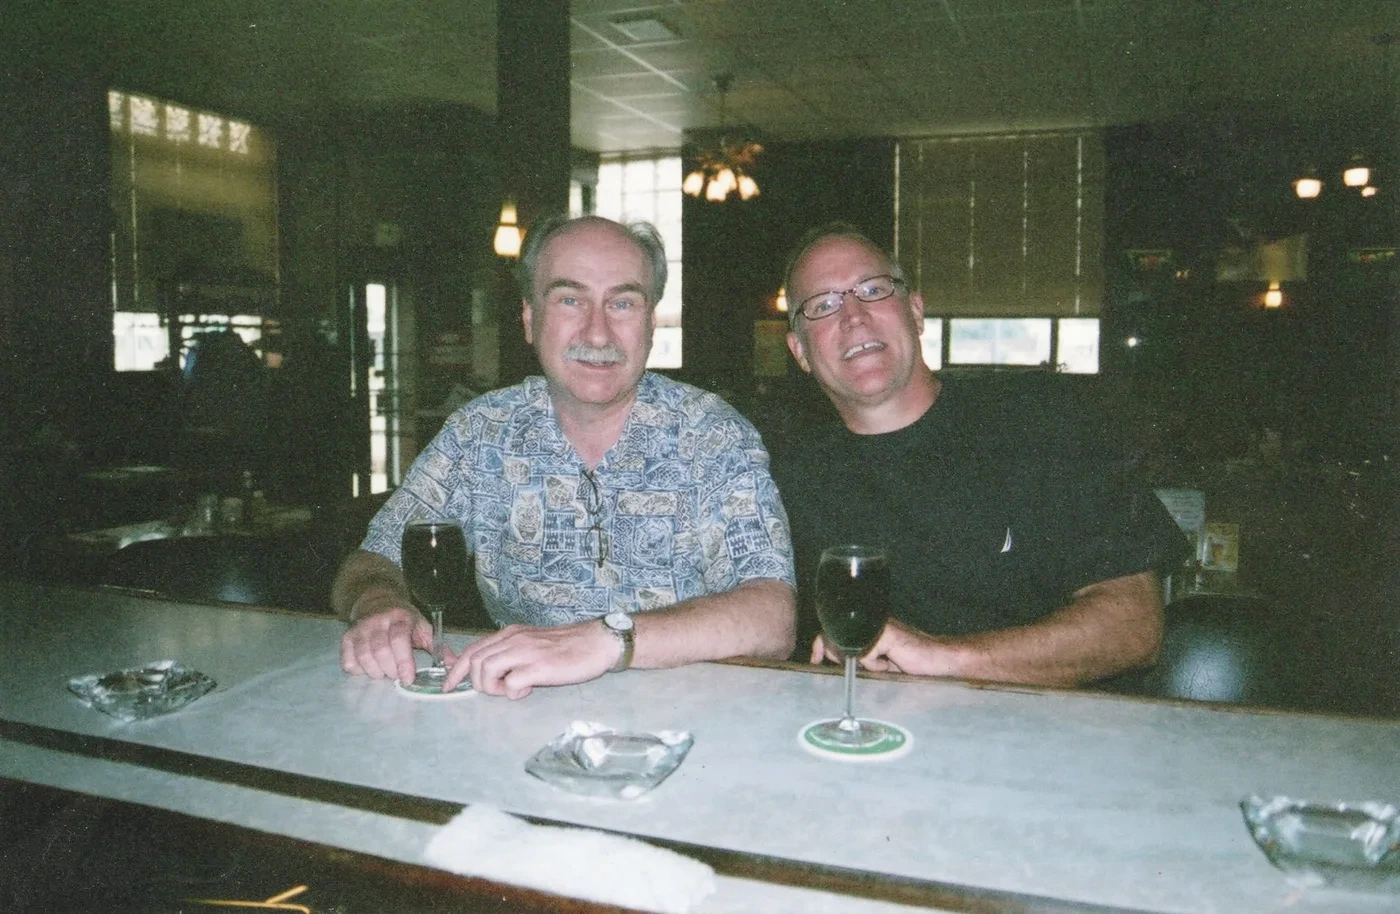
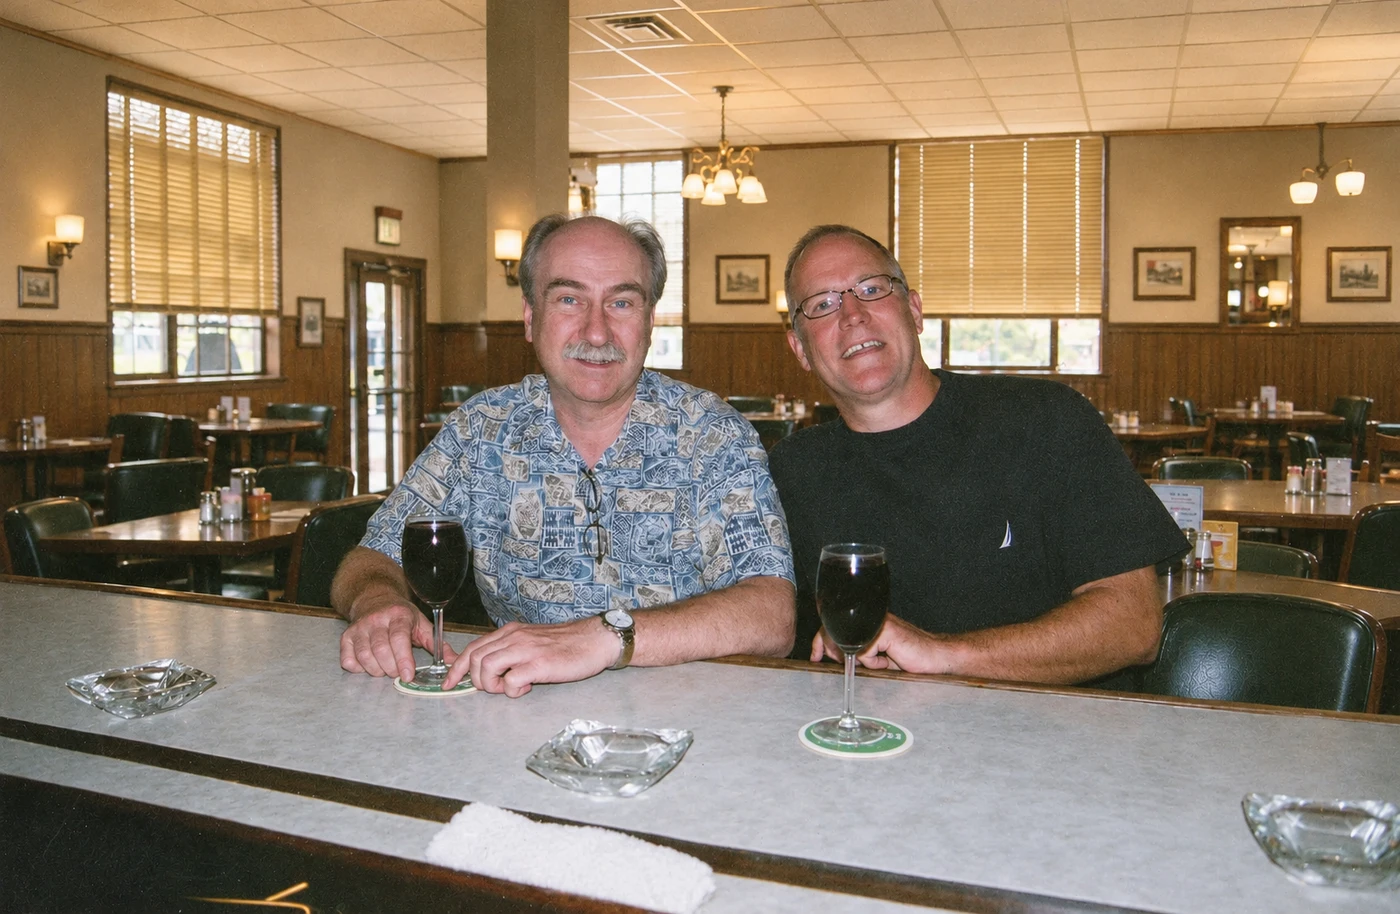
Publish approved warmly lit homepage photograph

diff --git a/index.html b/index.html
@@ -1,6 +1,6 @@
 <!doctype html>
 <html lang="en"><head><meta charset="utf-8"><meta name="viewport" content="width=device-width,initial-scale=1"><title>Jeff &amp; Chuck's Excellent Adventure!</title><link rel="stylesheet" href="guide.css"><link rel="stylesheet" href="basecamp.css?v=pick-legend-1"><script defer src="skyland-weather.js"></script></head>
-<body><nav class="mast" aria-label="Main navigation"><div><a class="brand" href="index.html">Shenandoah Trail Guide</a><span><a href="index.html#trails">Hikes</a><a href="trailhead-map.html">Trailhead map</a></span></div></nav><main class="wrap"><header class="hero"><div><h1>Jeff &amp; Chuck's <em>Excellent Adventure!</em></h1><p>Our hiking plans for Shenandoah National Park, with Skyland Lodge as home base.</p><div class="hero-links"><a class="action" href="#trails">Find a hike</a><a class="action secondary" href="trailhead-map.html">Map &amp; drives from Skyland</a></div></div><img src="images/jeff-and-chuck.webp" width="1400" height="914" alt="Jeff and Chuck sitting side by side at a counter with two glasses of wine."></header><section class="base" id="basecamp"><h2>Basecamp at Skyland Lodge</h2><p>Skyline Drive, mileposts 41.7 and 42.5</p><div class="photos"><figure><a href="https://www.flickr.com/photos/snpphotos/49669986046/"><img loading="lazy" src="https://live.staticflickr.com/65535/49669986046_af49cfe850_b.jpg" alt="A paved walkway leads to the stone-fronted entrance of Skyland’s dining and gift shop building."></a><figcaption>Front entrance to Skyland’s dining lodge · <a href="https://www.flickr.com/photos/snpphotos/49669986046/">Shenandoah National Park</a></figcaption></figure>
+<body><nav class="mast" aria-label="Main navigation"><div><a class="brand" href="index.html">Shenandoah Trail Guide</a><span><a href="index.html#trails">Hikes</a><a href="trailhead-map.html">Trailhead map</a></span></div></nav><main class="wrap"><header class="hero"><div><h1>Jeff &amp; Chuck's <em>Excellent Adventure!</em></h1><p>Our hiking plans for Shenandoah National Park, with Skyland Lodge as home base.</p><div class="hero-links"><a class="action" href="#trails">Find a hike</a><a class="action secondary" href="trailhead-map.html">Map &amp; drives from Skyland</a></div></div><img src="images/jeff-and-chuck.webp?v=lit-room" width="1400" height="914" alt="Jeff and Chuck sitting side by side at a counter with two glasses of wine."></header><section class="base" id="basecamp"><h2>Basecamp at Skyland Lodge</h2><p>Skyline Drive, mileposts 41.7 and 42.5</p><div class="photos"><figure><a href="https://www.flickr.com/photos/snpphotos/49669986046/"><img loading="lazy" src="https://live.staticflickr.com/65535/49669986046_af49cfe850_b.jpg" alt="A paved walkway leads to the stone-fronted entrance of Skyland’s dining and gift shop building."></a><figcaption>Front entrance to Skyland’s dining lodge · <a href="https://www.flickr.com/photos/snpphotos/49669986046/">Shenandoah National Park</a></figcaption></figure>
 <figure><img loading="lazy" src="https://www.nps.gov/common/uploads/cropped_image/E2869254-B86B-B34F-2538C47CB87C59D6.jpg" alt="Inside the Pollock Dining Room"><figcaption>Inside the Pollock Dining Room · <a href="https://www.nps.gov/places/000/skyland-dining-room.htm">NPS</a></figcaption></figure></div>
 <div class="stay"><div><section><h3>Arrival &amp; departure</h3><dl><dt>Check-in</dt><dd>4:00 p.m.</dd><dt>Check-out</dt><dd>11:00 a.m.</dd></dl><a href="https://www.goshenandoah.com/lodging/policies">Lodge policies</a></section>
 <section class="ridge"><h3>Weather at Skyland</h3><p id="weather" role="status">See the local forecast for conditions at the lodge.</p><a href="https://forecast.weather.gov/MapClick.php?lat=38.593&amp;lon=-78.3804">National Weather Service forecast</a> · <a href="https://open-meteo.com/">Weather data by Open-Meteo</a></section></div>
